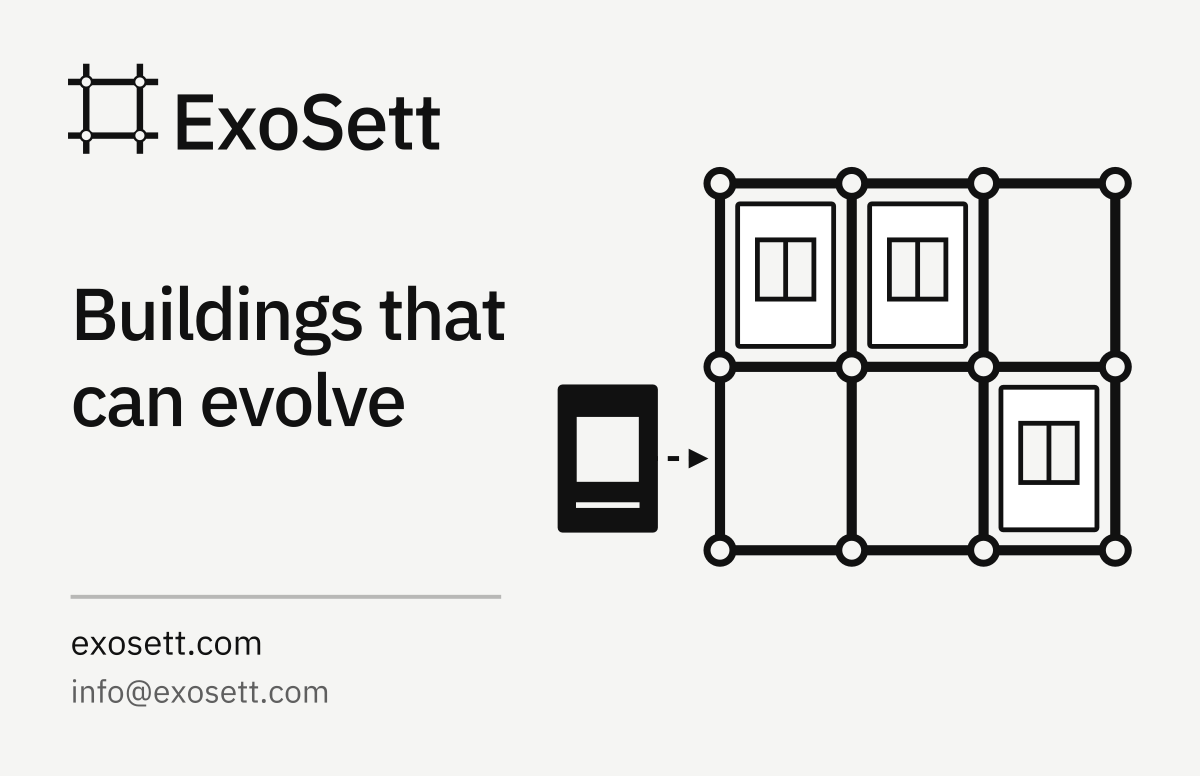
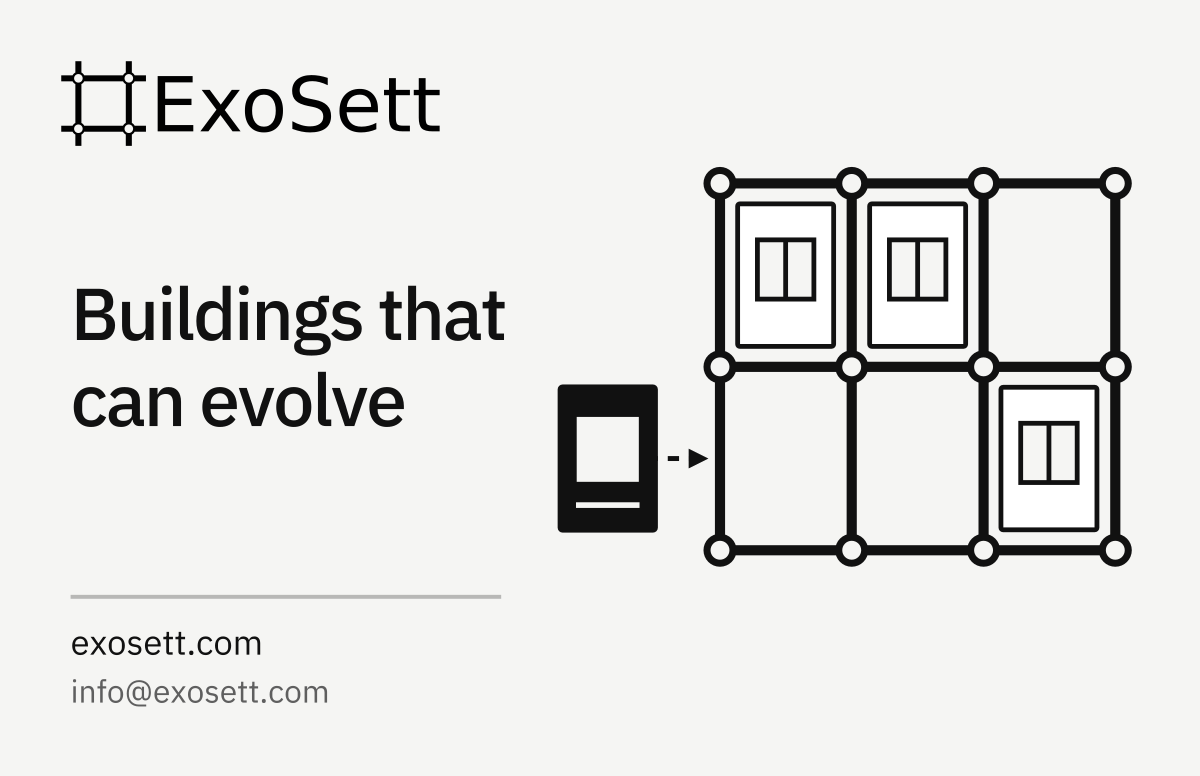
Third attempt at a business card - good.

Changed region(s): [[0.0308, 0.0619, 0.37, 0.2165]]

diff --git a/assets/brand/print/exosett-card/README.md b/assets/brand/print/exosett-card/README.md
@@ -2,7 +2,7 @@
 
 The two SVG files are editable artwork masters. Each is **91 × 61 mm**, comprising an **85 × 55 mm** UK business-card trim size plus **3 mm bleed** on every edge. The trim box begins at `(3 mm, 3 mm)`. Important content remains within a safe box inset another 4 mm from the trim edge.
 
-The front carries the ExoSett lock-up, headline, frame-and-cassette diagram, website and email address. The back contains only a centred standalone ExoSett frame symbol. The combined print PDF contains the front as page 1 and the back as page 2. Text is converted to vector paths during PDF export for reliable commercial output. The SVG front master retains editable IBM Plex Sans text and references the repository's local WOFF2 font files.
+The front carries the approved outlined ExoSett production lock-up, headline, frame-and-cassette diagram, website and email address. The lock-up is reused without altering the symbol-to-wordmark geometry established by the editable source master. The back contains only a centred standalone ExoSett frame symbol. The combined print PDF contains the front as page 1 and the back as page 2. Text outside the approved logo is converted to vector paths during PDF export for reliable commercial output. The SVG front master retains editable IBM Plex Sans text and references the repository's local WOFF2 font files.
 
 The PNG previews show the **trimmed 85 × 55 mm card**, not the bleed. They are rendered at 1200 × 776 pixels (approximately 359 ppi at finished size) for convenient inspection.
 
